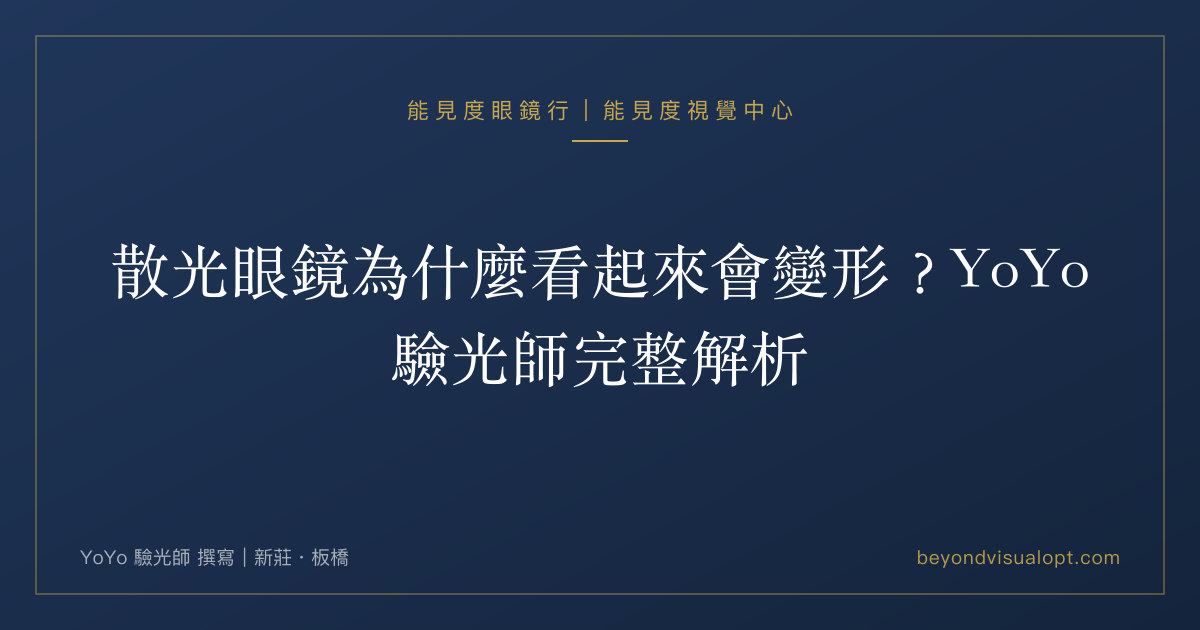
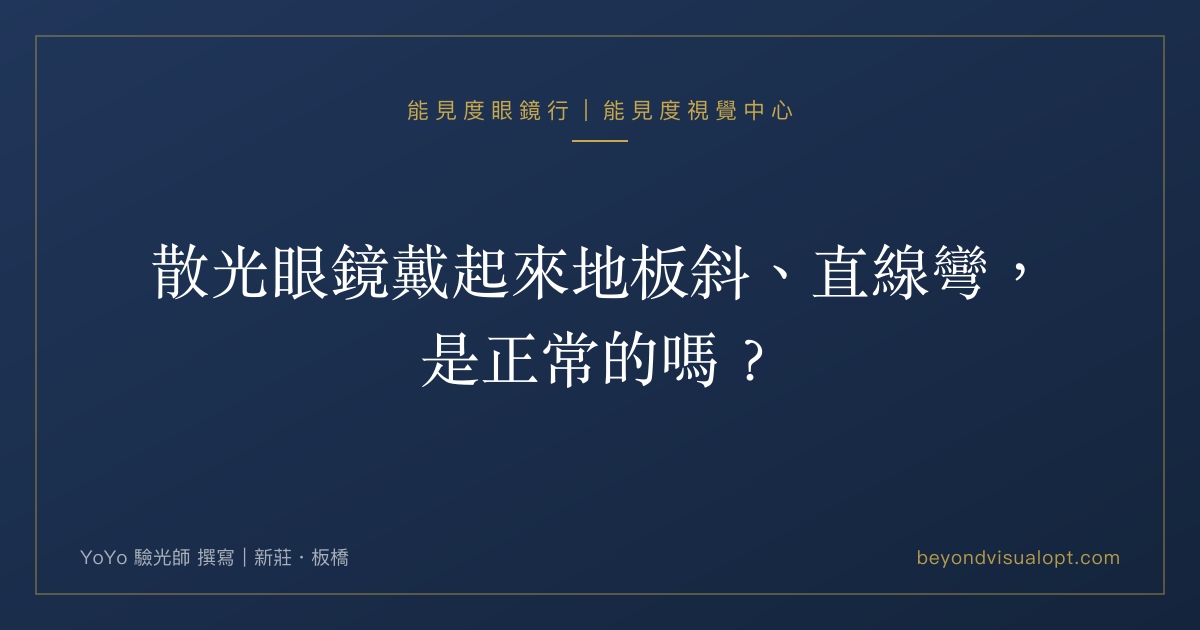
高度近視分類第 1 步：已上線計算錯誤急修＋用詞（官網部→法務）
- 頂點距離表 12→8mm：-6D 由 25 度更正約 14 度、-10D 由 50 度更正約 38 度，附 Fc 公式（文章、指南中英）
- 「每 1mm 約 0.25D」更正為 -6.00D 每 1mm 約 0.04D（不等像指南中英、/services/ 三處）
- /services/「高度近視專科配鏡」→「高度近視配鏡」；「處方」→度數／驗光單；CA-800 標新莊店
- 1.74「量產最薄」改封閉集合「本店經銷品牌中折射率最高」；英文阿貝數自相矛盾段改正
- 不等像指南放大率句先改通則（老闆 10-24 確認可指定基弧中心厚度，第 2 步寫回）
- FAQ 格式修正（myopia-vs-astigmatism 4 題進 schema）、3 篇 H1 調整

Changed region(s): [[0.0925, 0.3921, 0.925, 0.4825], [0.3083, 0.5127, 0.6783, 0.6333]]

diff --git a/src/content/blog/high-myopia-lens-brand-choice.md b/src/content/blog/high-myopia-lens-brand-choice.md
@@ -34,7 +34,7 @@ keywords: "高度近視鏡片,蔡司還是HOYA,鏡片邊緣厚度,1.74鏡片,鏡
 
 這條式子最要命的一點：**只有折射率跟鏡片材料有關，另外兩項都跟你的臉、你的度數、你挑的那支框有關。**品牌能動的是第三項，而第二項是平方項。
 
-下面把三個變數各自能拉動多少，一個一個算給你看。所有數字都是**依光學公式的概略推算示意**，用來比較權重大小，實際成品厚度會因處方、鏡片設計、加工方式與鏡框弧度而異。
+下面把三個變數各自能拉動多少，一個一個算給你看。所有數字都是**依光學公式的概略推算示意**，用來比較權重大小，實際成品厚度會因度數、鏡片設計、加工方式與鏡框弧度而異。
 
 ---
 
@@ -149,19 +149,19 @@ keywords: "高度近視鏡片,蔡司還是HOYA,鏡片邊緣厚度,1.74鏡片,鏡
 
 **Q：高度近視選蔡司還是 HOYA 比較薄？**
 
-就規格而言，兩個品牌的多數主流系列都涵蓋 1.60 / 1.67 / 1.74 折射率選項，在「材料能提供的薄度」這一層是重疊的，所以不存在單一品牌一定比較薄的答案。同樣度數下，鏡片邊緣厚度概略取決於度數、折射率、鏡框尺寸與偏心量四項，其中鏡框與偏心是平方關係、影響往往最大。實際該選哪個品牌與哪一級折射率，需要由驗光人員依你的處方、瞳距與選定鏡框實際量測評估後對應，無法在量測之前先給答案。
+就規格而言，兩個品牌的多數主流系列都涵蓋 1.60 / 1.67 / 1.74 折射率選項，在「材料能提供的薄度」這一層是重疊的，所以不存在單一品牌一定比較薄的答案。同樣度數下，鏡片邊緣厚度概略取決於度數、折射率、鏡框尺寸與偏心量四項，其中鏡框與偏心是平方關係、影響往往最大。實際該選哪個品牌與哪一級折射率，需要由驗光人員依你的度數、瞳距與選定鏡框實際量測評估後對應，無法在量測之前先給答案。
 
 **Q：換到 1.74 可以薄多少？**
 
-依光學公式概略推算，同一支框、同一度數下，1.60 換到 1.67 邊緣厚度大約少一成，換到 1.74 大約少兩成。有感，但幅度是「打八折」而不是「砍半」，而且實際毫米數會依處方、鏡片設計與加工方式而異。如果你的鏡框偏大或框心距明顯大於瞳距，先把框調整到位，減薄效果通常比升級折射率更明顯。
+依光學公式概略推算，同一支框、同一度數下，1.60 換到 1.67 邊緣厚度大約少一成，換到 1.74 大約少兩成。有感，但幅度是「打八折」而不是「砍半」，而且實際毫米數會依度數、鏡片設計與加工方式而異。如果你的鏡框偏大或框心距明顯大於瞳距，先把框調整到位，減薄效果通常比升級折射率更明顯。
 
 **Q：為什麼驗光人員會建議我換小一點的鏡框？**
 
 因為邊緣厚度跟鏡片被切出來的半徑是平方關係。框變大、加上框心距大於瞳距造成的偏心量，兩者相加會讓鏡片實際用到的半徑往外長，厚度概略以平方倍率增加。以一個 -10.00D、瞳距 64mm 的例子概略推算，換到明顯偏大的框，邊緣厚度可能多出約六成。這不是要你放棄喜歡的框，而是讓你在下決定前知道代價落在哪裡。
 
-**Q：可以拿舊處方單直接配一副薄的嗎？**
+**Q：可以拿舊的驗光單直接配一副薄的嗎？**
 
-不建議直接照抄。處方單上只有度數，沒有記錄那副眼鏡當初戴在你臉上的位置，也沒有這次新框的框心距與尺寸。度數越高，頂點距離與偏心量造成的落差越明顯，照抄的風險會被度數放大。高度數換新框時，建議重新量測單眼瞳距、瞳孔高度與實際配戴位置後再決定鏡片規格。
+不建議直接照抄。驗光單上只有度數，沒有記錄那副眼鏡當初戴在你臉上的位置，也沒有這次新框的框心距與尺寸。度數越高，頂點距離與偏心量造成的落差越明顯，照抄的風險會被度數放大。高度數換新框時，建議重新量測單眼瞳距、瞳孔高度與實際配戴位置後再決定鏡片規格。
 
 **Q：新莊、板橋哪裡可以做高度近視配鏡評估？**
 

diff --git a/src/content/blog-en/high-myopia-glasses-guide.md b/src/content/blog-en/high-myopia-glasses-guide.md
@@ -32,9 +32,11 @@ The closer a lens sits to your eye, the stronger its effective correction; the f
 
 | Measured Rx | Vertex distance 12mm | Vertex distance 8mm | Difference |
 |---------|-------------|------------|------|
-| -6.00D | -6.00D | -5.75D | 0.25D |
-| -10.00D | -10.00D | -9.50D | 0.50D |
-| -14.00D | -14.00D | -13.25D | 0.75D |
+| -6.00D | -6.00D | approx. -5.86D | approx. 0.14D |
+| -10.00D | -10.00D | approx. -9.62D | approx. 0.38D |
+| -14.00D | -14.00D | approx. -13.26D | approx. 0.74D |
+
+Formula: Fc = F ÷ (1 − dF), where F is the measured power and d is how far the lens moves toward the eye, in meters. For -6.00D: -6.00 ÷ [1 − 0.004 × (-6.00)] = -6.00 ÷ 1.024 ≈ -5.86D, a difference of about 0.14D. Moving the same 4mm at -14.00D changes it by about 0.74D.
 
 The same prescription delivers a different correction depending on where the lens sits. **A high myopia prescription must be recalculated for the actual wearing position of your chosen frame.**
 
@@ -64,9 +66,9 @@ Many people assume high myopia automatically means picking the highest refractiv
 |--------|------|------|---------|
 | 1.60 | Lower cost, less aberration | Thicker | Under -4.00D |
 | 1.67 | Best balance of thinness and aberration | — | -4.00D to -8.00D |
-| 1.74 | Thinnest | Lower Abbe number (more chromatic dispersion), higher price | -8.00D and above |
+| 1.74 | The highest index among the brands we carry | Highest price, diminishing returns | -8.00D and above |
 
-The **Abbe number** measures how much a lens disperses light into colors — the higher the value, the less dispersion and the clearer the image. The Abbe number of 1.74 lenses (around 33) is slightly lower than 1.67 (around 32) in practical terms, meaning theoretically more dispersion, though modern coatings have greatly reduced the real-world impact.
+The **Abbe number** measures how much a lens disperses light into colors — the higher the value, the less dispersion. One thing often stated backwards: **the Abbe number does not necessarily drop as the index goes up.** Based on manufacturers' published specifications for today's mainstream high-index materials, 1.67 and 1.74 are quite close (roughly 31–33, depending on the material). So "1.74 will definitely show more color fringing than 1.67" does not hold.
 
 The bottom line: **choose your refractive index based on your prescription, frame size, face shape, and visual needs — higher isn't automatically better.**
 
@@ -108,5 +110,7 @@ Yes — contact lenses come in different materials, including soft and rigid (RG
 **Q: Where can I get a precision fitting for high myopia in Xinzhuang or Banqiao (New Taipei)?**
 
 At Beyond Visual Optometry in Xinzhuang, our licensed optometry staff provide complete high myopia fitting evaluations, including vertex distance compensation calculations, precise optical center positioning, frame suitability assessment, and post-fitting follow-up. Our Banqiao branch also offers consultations and fittings. Call +886-2-2206-6700 (Xinzhuang) or +886-2-2253-1246 (Banqiao), or [book online](/en/booking/).
+
+---
 
 Fitting glasses for high myopia should never be "pick a 1.74 lens and go home." Every detail deserves careful attention — because your eyes depend on that pair of glasses for 16 hours a day.

diff --git a/src/content/blog/astigmatism-glasses-distortion.md b/src/content/blog/astigmatism-glasses-distortion.md
@@ -1,5 +1,5 @@
 ---
-title: 散光眼鏡為什麼看起來會變形？YoYo 驗光師完整解析
+title: 散光眼鏡戴起來地板斜、直線彎，是正常的嗎？
 seoTitle: "散光眼鏡為什麼看起來會變形？原因與解法｜新莊板橋驗光所"
 date: 2026-06-25
 tag: "驗光知識"
@@ -69,7 +69,7 @@ instagram: ""
 散光配鏡最容易出錯的環節：
 
 1. **主觀驗光沒有確認軸向**：電腦驗光的散光軸向只是初始值，必須透過 Jackson 交叉圓柱鏡（JCC）主觀確認
-2. **直接沿用舊處方**：散光度數和軸向會隨年齡變化，每次配鏡都要重新確認
+2. **直接沿用舊度數**：散光度數和軸向會隨年齡變化，每次配鏡都要重新確認
 3. **鏡框選擇不當**：大框、高弧度鏡框會讓高度散光的周邊變形更明顯
 
 能見度視覺中心（新莊比泱驗光所）的驗光流程包含完整主觀散光軸向確認與雙眼視覺評估。在能見度配的眼鏡，取件後的鏡架調整不另外收費。
